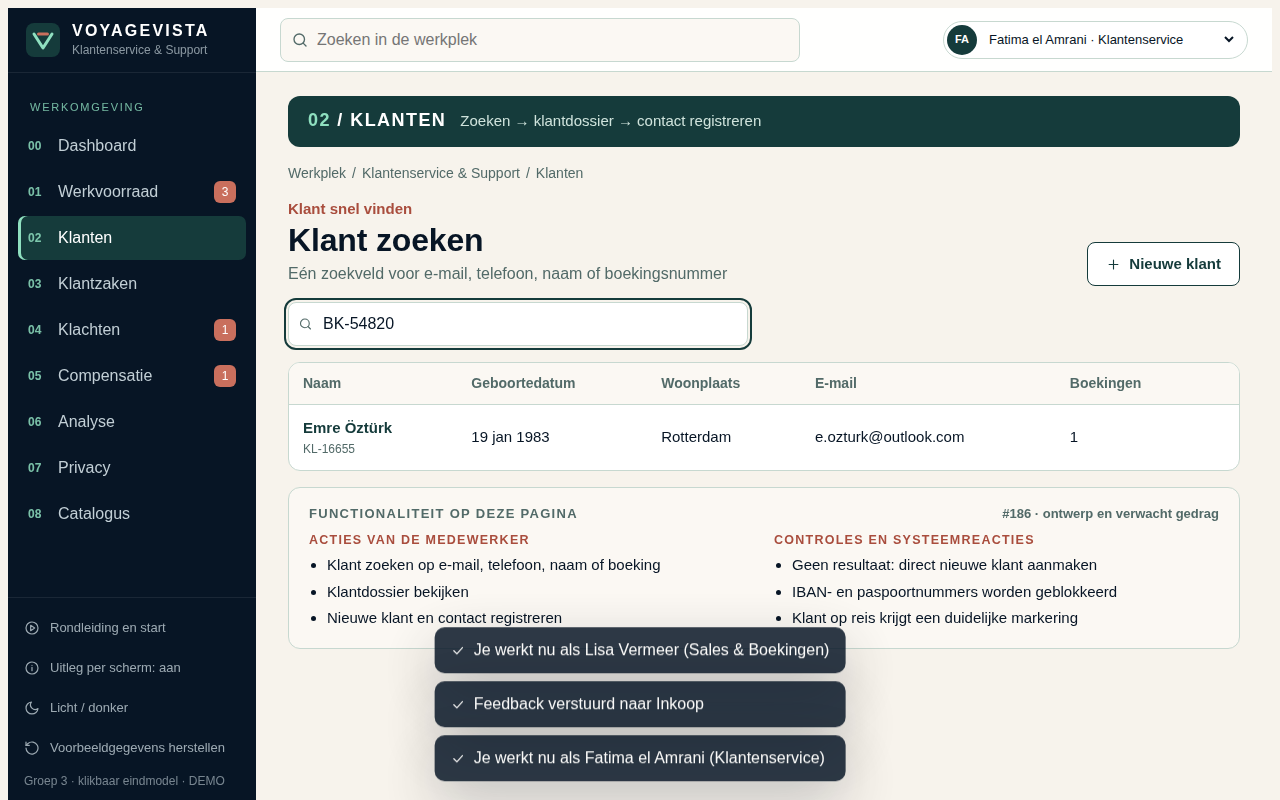
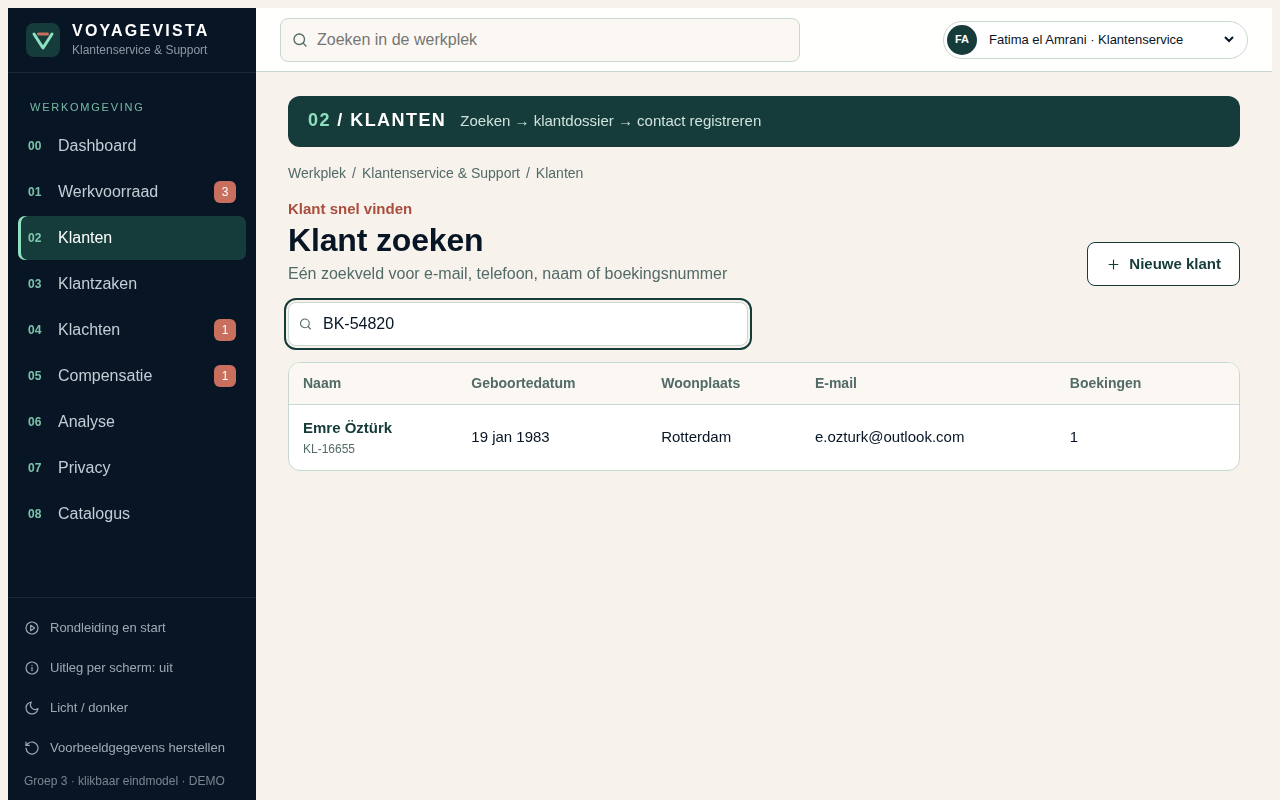
Testverslag: tests volledig geïsoleerd opnieuw uitgevoerd
Elke test laadt de app nu opnieuw, zodat meldingen en gegevens van een
vorige test niet meetellen. Nieuwe screenshots zonder oude meldingen en
een taalfout in de melding bij afsluiten van een zaak hersteld.

Claude-Session: https://claude.ai/code/session_01BtkVYWdgjJzhH12PsSoRvJ

Changed region(s): [[0.25, 0.625, 0.9688, 1.0]]

diff --git a/docs/testen/testscript-wireframes.js b/docs/testen/testscript-wireframes.js
@@ -6,7 +6,7 @@ const URL = 'file://' + process.cwd() + '/prototype/werkplek-v2.html';
   const p = await b.newPage({ viewport: { width: 1280, height: 800 } });
   let errs = []; p.on('pageerror', e => errs.push(e.message));
   const go = async h => { await p.evaluate(x => location.hash = x, h); await p.waitForTimeout(90); };
-  const fresh = async (role, h) => { await p.goto(URL + '#start'); await p.evaluate(() => { localStorage.clear(); localStorage.setItem('vv-uitleg', '0'); }); await p.goto(URL + '#start'); await p.waitForTimeout(60); await p.selectOption('#role', role); await p.waitForTimeout(40); await p.evaluate(() => document.querySelectorAll('.toast').forEach(t => t.remove())); if (h) await go(h); };
+  const fresh = async (role, h) => { await p.goto('about:blank'); await p.goto(URL + '#start'); await p.evaluate(() => { localStorage.clear(); localStorage.setItem('vv-uitleg', '0'); }); await p.goto(URL + '#start'); await p.waitForTimeout(60); await p.selectOption('#role', role); await p.waitForTimeout(40); await p.evaluate(() => document.querySelectorAll('.toast').forEach(t => t.remove())); if (h) await go(h); };
   const role = async r => { await p.selectOption('#role', r); await p.waitForTimeout(60); };
   const txt = () => p.$eval('#view', e => e.innerText);
   const mtxt = () => p.$eval('#modal', e => e.innerText);
@@ -58,7 +58,7 @@ const URL = 'file://' + process.cwd() + '/prototype/werkplek-v2.html';
   t('K-06', '#235', 'Zaak toewijzen', 'Teamleider', 'Werkvoorraad → KZ-1043 Toewijzen → behandelaar kiezen', 'Zaak verschijnt bij de behandelaar', async () => { await fresh('teamleider', 'wv'); const els = await p.$$('#view [data-a=assign]'); const d = await Promise.all(els.map(e => e.getAttribute('data-d'))); await els[d.findIndex(x => x.includes('KZ-1043'))].click(); await p.waitForTimeout(100); await fill('#modal'); await submit('#modal'); return [/toegewezen/.test(await toast()), await toast()]; }, 1);
   t('K-07', '#235', 'Reactietermijn bewaakt', 'Klantenservice', 'Mijn werkvoorraad openen', 'Melding voor zaken over de termijn (48 u klacht / 24 u vraag)', async () => { await fresh('ks', 'wv'); const s = await txt(); return [/te laat|reactietermijn|Melding/i.test(s), (s.match(/Melding[^\n]*/) || [''])[0].slice(0, 400)]; });
   t('K-08', '#236', 'Antwoord met sjabloon', 'Klantenservice', 'KZ-1041 → sjabloon "Transfer niet aanwezig"', 'Antwoordveld gevuld met sjabloontekst', async () => { await fresh('ks', 'zaak.KZ-1041'); await click('tpl'); const v = await p.$eval('#view [name=tekst]', e => e.value); return [v.length > 20, v.slice(0, 110) + "…"]; });
-  t('K-09', '#236', 'Afsluiten met open vervolgactie', 'Klantenservice', 'KZ-1041 → vervolgactie toevoegen → Afsluiten', 'Afsluiten geblokkeerd tot de actie klaar is', async () => { await fresh('ks', 'zaak.KZ-1041'); await click('addZA'); await fill('#modal'); await submit('#modal'); await click('closeZaak'); const m = await mtxt().catch(() => ''); const s = m + (await txt()); return [/open|vervolgactie/i.test(m || ''), (s.match(/[^\n]*(open vervolgactie|nog open)[^\n]*/i) || [''])[0].slice(0, 400)]; });
+  t('K-09', '#236', 'Afsluiten met open vervolgactie', 'Klantenservice', 'KZ-1041 → vervolgactie toevoegen → Afsluiten', 'Afsluiten geblokkeerd tot de actie klaar is', async () => { await fresh('ks', 'zaak.KZ-1041'); await click('addZA'); await fill('#modal'); await submit('#modal'); await click('closeZaak'); const m = await mtxt(); const r = (m.match(/Er staa?t nog[^\n]*/) || [''])[0]; return [/vervolgactie/.test(r), r]; });
   t('K-10', '#237', 'Klacht beoordelen', 'Klantenservice', 'KZ-1043 → Klacht beoordelen → Gegrond + onderbouwing', 'Beoordeling vastgelegd, volgende stap compensatievoorstel', async () => { await fresh('ks', 'zaak.KZ-1043'); await click('beoordeel'); await fill('#modal'); await submit('#modal'); const s = await txt(); return [/Gegrond|Ongegrond|Onvoldoende/.test(s) && !(await p.$('#modal .modal')), await toast()]; });
   t('K-11', '#237', 'Bezwaar naar After Travel', 'After Travel', 'Als After Travel KZ-0994 openen', 'Eindbesluit-formulier zichtbaar voor After Travel', async () => { await fresh('after', 'kdash'); const s = await txt(); await go('zaak.KZ-0994'); const f = !!(await p.$('#view form')); return [/Bezwaren/.test(s) && f, `Dashboard toont bezwaren · eindbesluit-formulier: ${f ? 'ja' : 'nee'}`]; });
   t('K-12', '#238', 'Compensatie buiten richtlijn', 'Klantenservice', 'KZ-1037 → voorstel 40% zonder motivatie → Indienen', 'Geweigerd: buiten de richtlijn (5–15%)', async () => { await fresh('ks', 'zaak.KZ-1037.voorstel'); await fill('#view'); await set('#view', { pct: '40' }); await submit(); const m = (await msgs()).join(' '); return [/richtlijn/.test(m), m.slice(0, 400)]; }, 1);

diff --git a/prototype/werkplek-v2.html b/prototype/werkplek-v2.html
@@ -1281,7 +1281,7 @@ MODALS.over = c => ({ title: 'Zaak overdragen', body: formHtml('m-over', c) });
 A.closeZaak = (el, ev, d) => openModal('closeZ', d);
 FORMS['m-closeZ'] = { submit: 'Afsluiten', fields: c => [{ k: 'uitkomst', l: 'Uitkomst', t: 'select', o: zaak(c.id).type === 'Klacht' ? ['Opgelost ter plaatse', 'Gegrond · compensatie uitbetaald', 'Gegrond · andere oplossing', 'Ongegrond', 'Eindbesluit After Travel'] : ['Beantwoord', 'Uitgevoerd', 'Doorgezet en afgehandeld'], req: 1 }, { k: 'toel', l: 'Toelichting', t: 'textarea', rows: 2 }],
   save: (v, c) => { const z = zaak(c.id); z.status = 'Afgesloten'; z.uitkomst = v.uitkomst; logH(z, 'Afgesloten · uitkomst: ' + v.uitkomst + (v.toel ? ' · ' + v.toel : '')); toast(z.id + ' afgesloten'); } };
-MODALS.closeZ = c => { const z = zaak(c.id); const openA = (z.acties || []).filter(a => !a.klaar); if (openA.length) return { title: 'Zaak kan nog niet worden afgesloten', body: `<p>Er ${openA.length > 1 ? 'staan nog ' + openA.length + ' vervolgacties' : 'staat nog 1 vervolgactie'} open. Rond ${openA.length > 1 ? 'die' : 'hem'} eerst af of draag ze over.</p>${openA.map(a => li(esc(a.oms), fd(a.datum) + ' · ' + esc(a.wie), bd('Open', 'warn'))).join('')}<div class="fbar">${btn('Sluiten', 'closeModal', { k: 'primary' })}</div>` }; const wb = z.berichten.find(b => b.wacht); if (wb && z.type === 'Klacht') return { title: 'Nog geen reactie van de klant', body: `<p>De klant heeft nog niet gereageerd op het besluit. Wacht de reactie af of leg een herinnering vast.</p><div class="fbar">${btn('Sluiten', 'closeModal', { k: 'primary' })}</div>` }; return { title: 'Zaak afsluiten', body: formHtml('m-closeZ', c) }; };
+MODALS.closeZ = c => { const z = zaak(c.id); const openA = (z.acties || []).filter(a => !a.klaar); if (openA.length) return { title: 'Zaak kan nog niet worden afgesloten', body: `<p>Er ${openA.length > 1 ? 'staan nog ' + openA.length + ' vervolgacties' : 'staat nog 1 vervolgactie'} open. Rond ${openA.length > 1 ? 'ze' : 'die'} eerst af of draag ${openA.length > 1 ? 'ze' : 'die'} over.</p>${openA.map(a => li(esc(a.oms), fd(a.datum) + ' · ' + esc(a.wie), bd('Open', 'warn'))).join('')}<div class="fbar">${btn('Sluiten', 'closeModal', { k: 'primary' })}</div>` }; const wb = z.berichten.find(b => b.wacht); if (wb && z.type === 'Klacht') return { title: 'Nog geen reactie van de klant', body: `<p>De klant heeft nog niet gereageerd op het besluit. Wacht de reactie af of leg een herinnering vast.</p><div class="fbar">${btn('Sluiten', 'closeModal', { k: 'primary' })}</div>` }; return { title: 'Zaak afsluiten', body: formHtml('m-closeZ', c) }; };
 A.reopenZaak = (el, ev, d) => openModal('reopenZ', d);
 FORMS['m-reopenZ'] = { submit: 'Heropenen', fields: () => [{ k: 'reden', l: 'Reden', t: 'textarea', req: 1, rows: 2 }], after: () => note('De zaak krijgt weer status "In behandeling"; de reden komt in de statushistorie.'), save: (v, c) => { const z = zaak(c.id); z.status = 'In behandeling'; logH(z, 'Heropend: ' + v.reden); toast(z.id + ' heropend'); } };
 MODALS.reopenZ = c => ({ title: 'Zaak heropenen', body: formHtml('m-reopenZ', c) });

diff --git a/docs/testen/testverslag-wireframes.md b/docs/testen/testverslag-wireframes.md
@@ -46,8 +46,8 @@ Het script `testscript-wireframes.js` voert alle testgevallen uit in Chromium (P
 | K-05 | #234 | Klant op reis → urgentie Hoog | Klantenservice | KL-20931 (op reis) → Contact registreren → Opslaan | Nieuwe zaak met urgentie Hoog | Zaak KZ-1044 aangemaakt met urgentie Hoog | Geslaagd |
 | K-06 | #235 | Zaak toewijzen | Teamleider | Werkvoorraad → KZ-1043 Toewijzen → behandelaar kiezen | Zaak verschijnt bij de behandelaar | KZ-1043 toegewezen aan Fatima el Amrani | Geslaagd ([bewijs](bewijs/K-06.png)) |
 | K-07 | #235 | Reactietermijn bewaakt | Klantenservice | Mijn werkvoorraad openen | Melding voor zaken over de termijn (48 u klacht / 24 u vraag) | Melding: KZ-1037 (1 dag te laat). De norm is 48 uur voor een klacht en 24 uur voor een vraag of wijziging. | Geslaagd |
-| K-08 | #236 | Antwoord met sjabloon | Klantenservice | KZ-1041 → sjabloon "Transfer niet aanwezig" | Antwoordveld gevuld met sjabloontekst | Antwoordveld gevuld: "Beste Peter, De chauffeur van de transfer wacht bij de uitgang met een bordje "V…" | Geslaagd |
-| K-09 | #236 | Afsluiten met open vervolgactie | Klantenservice | KZ-1041 → vervolgactie toevoegen → Afsluiten | Afsluiten geblokkeerd tot de actie klaar is | Afsluiten kan niet met open vervolgacties | Geslaagd |
+| K-08 | #236 | Antwoord met sjabloon | Klantenservice | KZ-1041 → sjabloon "Transfer niet aanwezig" | Antwoordveld gevuld met sjabloontekst | Antwoordveld gevuld met: “Beste Peter, De chauffeur van de transfer wacht bij de uitgang…” | Geslaagd |
+| K-09 | #236 | Afsluiten met open vervolgactie | Klantenservice | KZ-1041 → vervolgactie toevoegen → Afsluiten | Afsluiten geblokkeerd tot de actie klaar is | Er staat nog 1 vervolgactie open. Rond die eerst af of draag die over. | Geslaagd |
 | K-10 | #237 | Klacht beoordelen | Klantenservice | KZ-1043 → Klacht beoordelen → Gegrond + onderbouwing | Beoordeling vastgelegd, volgende stap compensatievoorstel | Klacht beoordeeld: Gegrond | Geslaagd |
 | K-11 | #237 | Bezwaar naar After Travel | After Travel | Als After Travel KZ-0994 openen | Eindbesluit-formulier zichtbaar voor After Travel | Dashboard toont bezwaren; formulier Eindbesluit zichtbaar | Geslaagd |
 | K-12 | #238 | Compensatie buiten richtlijn | Klantenservice | KZ-1037 → voorstel 40% zonder motivatie → Indienen | Geweigerd: buiten de richtlijn (5–15%) | Opslaan is niet gelukt: controleer het gemarkeerde veld. Valt buiten de richtlijn (5–15%). Pas het aan of vink aan dat je het bewust zo indient. | Geslaagd ([bewijs](bewijs/K-12.png)) |
